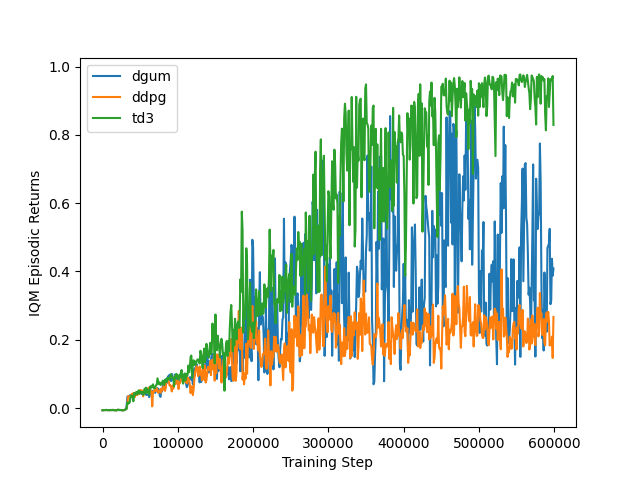
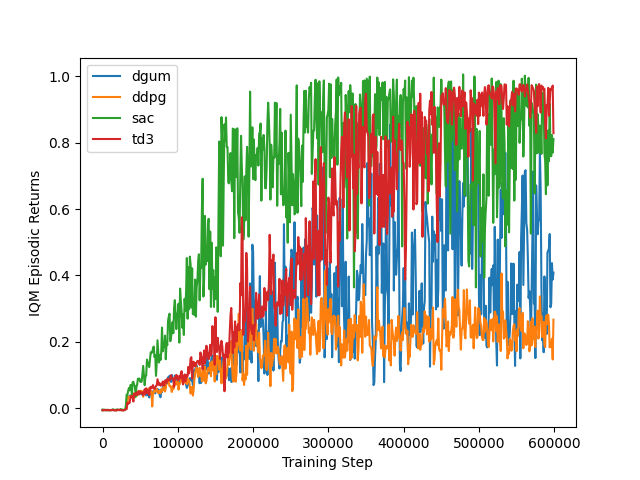
fixing bugs in iqm

diff --git a/tests/test_doublegum.py b/tests/test_doublegum.py
@@ -70,7 +70,7 @@ def test_mujoco_eval(args):
         print(rand_int)
         try:
             subprocess.run(
-                f"python cleanrl/dgum_continuous_action.py --seed {rand_int} {'--double_layer' if {args.double_layer} else ''} --save-model --env-id {args.env_id} --learning-starts {args.learning_starts} --batch-size 256 --total-timesteps {args.total_timesteps} --save-model-folder {args.env_id}_process_3",
+                f"python cleanrl/dgum_continuous_action.py --seed {rand_int} {'--double_layer' if {args.double_layer} else ''} --save-model --env-id {args.env_id} --learning-starts {args.learning_starts} --batch-size 256 --total-timesteps {args.total_timesteps} --save-model-folder {args.env_id}_Group_Norm",
                 shell=True,
                 check=True,
             )
@@ -79,7 +79,7 @@ def test_mujoco_eval(args):
 
         try:    
             subprocess.run(
-                f"python cleanrl/ddpg_continuous_action.py --seed {rand_int} {'--double_layer' if {args.double_layer} else ''} --save-model --env-id {args.env_id} --learning-starts {args.learning_starts} --batch-size 256 --total-timesteps {args.total_timesteps} --save-model-folder {args.env_id}_process_3",
+                f"python cleanrl/ddpg_continuous_action.py --seed {rand_int} {'--double_layer' if {args.double_layer} else ''} --save-model --env-id {args.env_id} --learning-starts {args.learning_starts} --batch-size 256 --total-timesteps {args.total_timesteps} --save-model-folder {args.env_id}_Group_Norm",
                 shell=True,
                 check=True,
             )
@@ -88,7 +88,7 @@ def test_mujoco_eval(args):
 
         try:
             subprocess.run(
-                f"python cleanrl/td3_continuous_action.py --seed {rand_int} {'--double_layer' if {args.double_layer} else ''} --save-model --env-id {args.env_id} --learning-starts {args.learning_starts} --batch-size 256 --total-timesteps {args.total_timesteps} --save-model-folder {args.env_id}_process_3",
+                f"python cleanrl/td3_continuous_action.py --seed {rand_int} {'--double_layer' if {args.double_layer} else ''} --save-model --env-id {args.env_id} --learning-starts {args.learning_starts} --batch-size 256 --total-timesteps {args.total_timesteps} --save-model-folder {args.env_id}_Group_Norm",
                 shell=True,
                 check=True,
             )
@@ -97,7 +97,7 @@ def test_mujoco_eval(args):
         
         try:
             subprocess.run(
-                f"python cleanrl/sac_continuous_action.py --seed {rand_int} {'--double_layer' if {args.double_layer} else ''} --save-model --env-id {args.env_id} --learning-starts {args.learning_starts} --batch-size 256 --total-timesteps {args.total_timesteps} --save-model-folder {args.env_id}_process_3",
+                f"python cleanrl/sac_continuous_action.py --seed {rand_int} {'--double_layer' if {args.double_layer} else ''} --save-model --env-id {args.env_id} --learning-starts {args.learning_starts} --batch-size 256 --total-timesteps {args.total_timesteps} --save-model-folder {args.env_id}_Group_Norm",
                 shell=True,
                 check=True,
             )

diff --git a/repro_utils/iqm.py b/repro_utils/iqm.py
@@ -25,8 +25,9 @@ def load_tensorboard_events(logdir):
 
     return data
 
-def get_iqm(sub_folder_path):
-    algos = ['dgum', 'ddpg', 'td3']
+# Calculates IQM for all algos on an env
+# make sure that all the iterations of a given algorithm are trained for the same number of steps
+def get_iqm(sub_folder_path, algos):
 
     sf_path = Path(sub_folder_path)
 
@@ -51,8 +52,9 @@ def get_iqm(sub_folder_path):
             data = load_tensorboard_events(ev_path)['eval/training_avg']
             if steps is None:
                 steps = data['steps']
-            
+
             ep_returns.append(data['values'])
+
         ep_returns = np.array(ep_returns).T
 
         
@@ -103,10 +105,10 @@ def save_dict_to_file(dict_obj, file_name):
 
 
 def main():
-    algs = ['dgum', 'ddpg', 'td3']
+    algs = ['dgum', 'ddpg', 'sac', 'td3']
     envs = ['Hopper-v4']
     for env in envs:
-        results = get_iqm(f"runs/{env}")
+        results = get_iqm(f"runs/{env}", algs)
         min, max = normalization_values(env)
         for alg in algs:
             print(results[alg]["iqm"])
